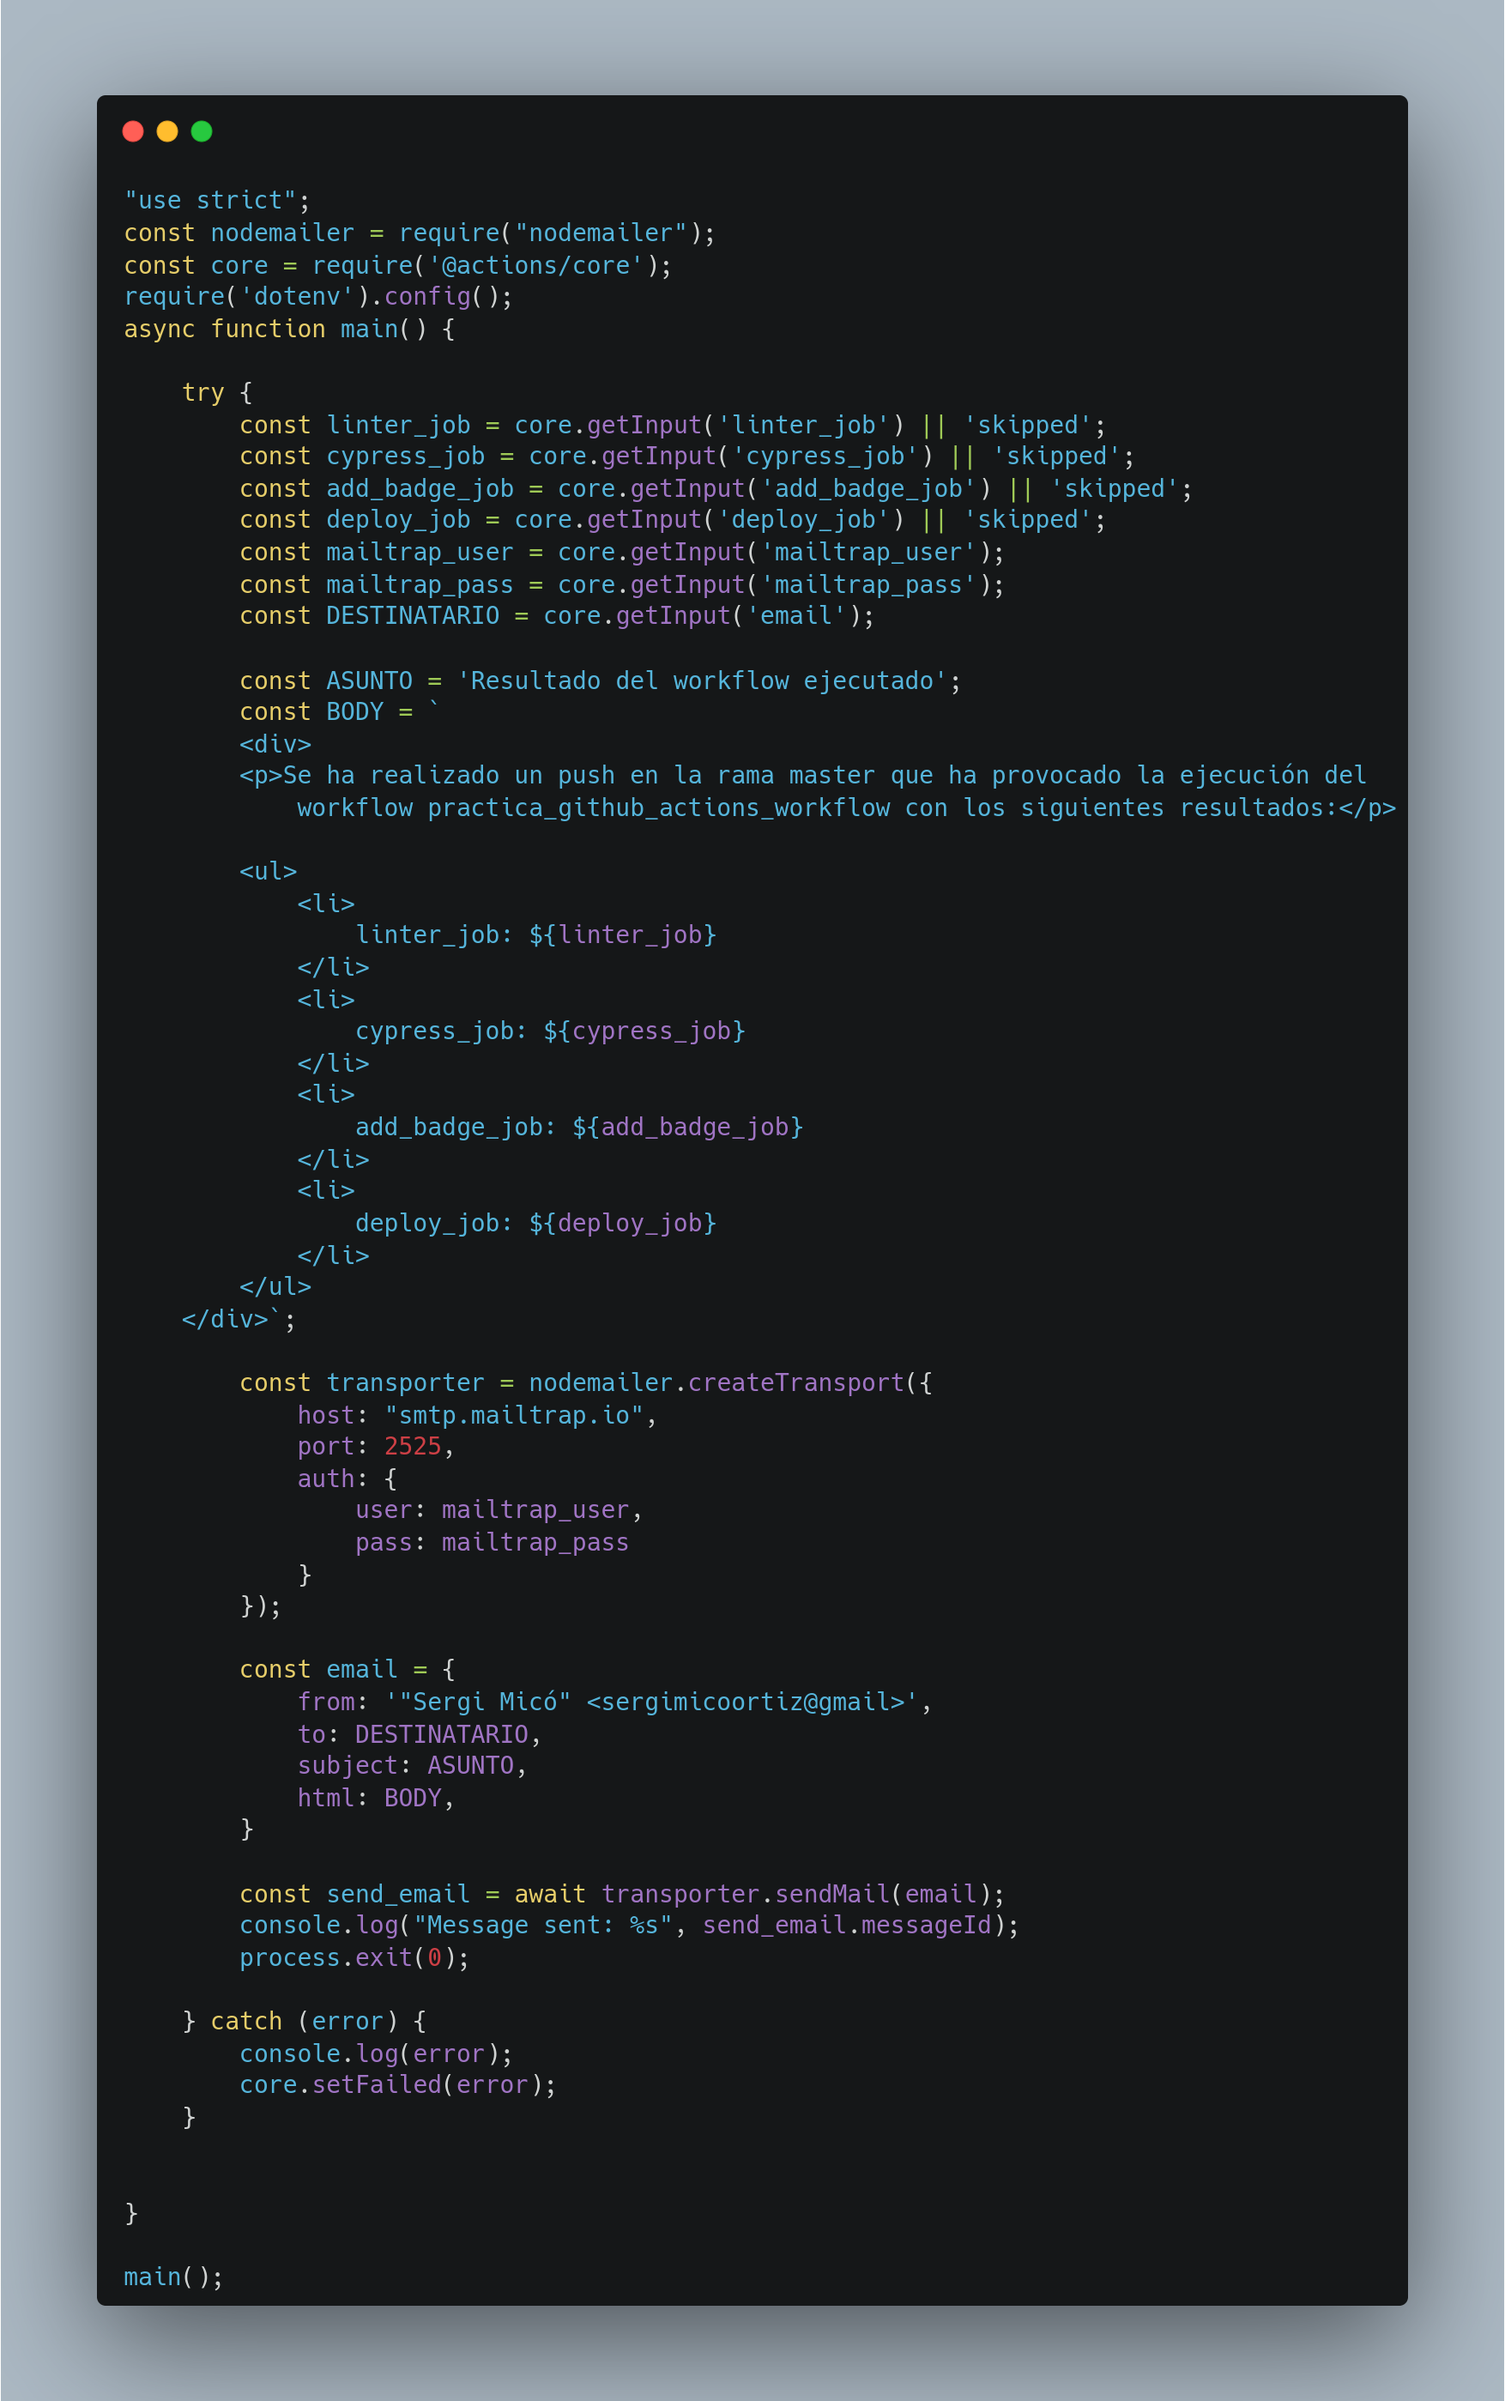
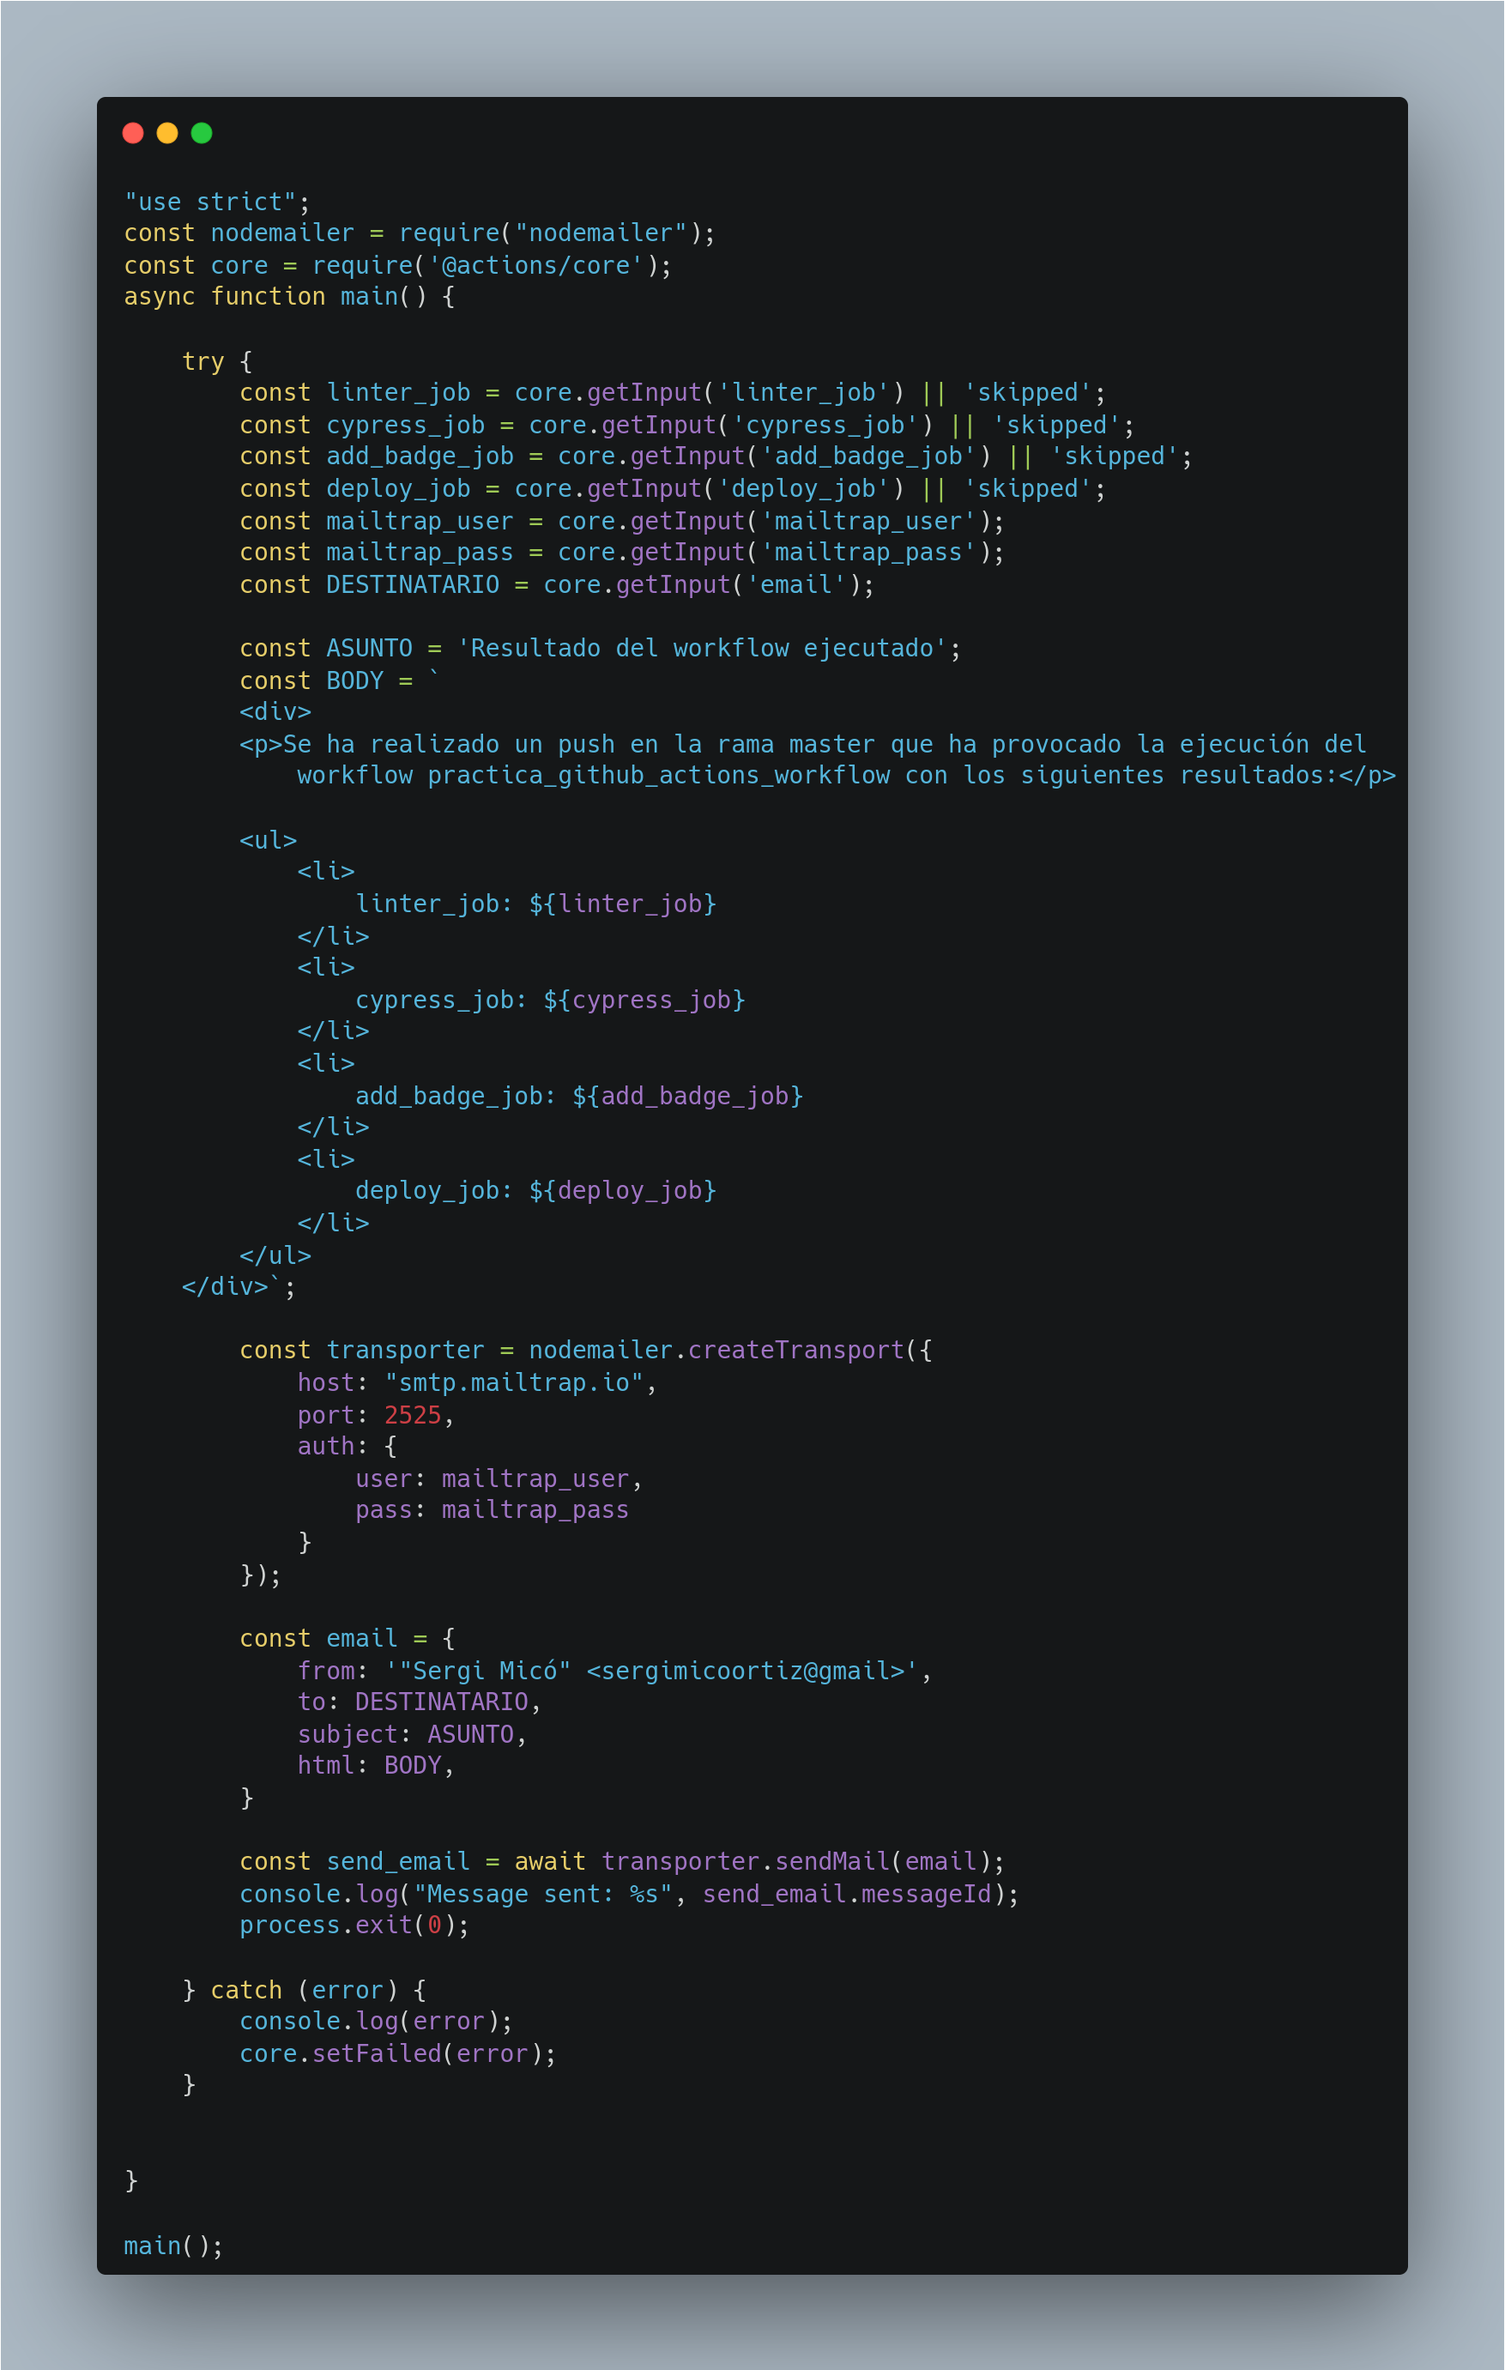
Updated README

diff --git a/.github/actions/email/dist/index.js b/.github/actions/email/dist/index.js
@@ -1762,125 +1762,6 @@ exports.checkBypass = checkBypass;
 
 /***/ }),
 
-/***/ 2437:
-/***/ ((module, __unused_webpack_exports, __nccwpck_require__) => {
-
-const fs = __nccwpck_require__(7147)
-const path = __nccwpck_require__(1017)
-const os = __nccwpck_require__(2037)
-const packageJson = __nccwpck_require__(9968)
-
-const version = packageJson.version
-
-const LINE = /(?:^|^)\s*(?:export\s+)?([\w.-]+)(?:\s*=\s*?|:\s+?)(\s*'(?:\\'|[^'])*'|\s*"(?:\\"|[^"])*"|\s*`(?:\\`|[^`])*`|[^#\r\n]+)?\s*(?:#.*)?(?:$|$)/mg
-
-// Parser src into an Object
-function parse (src) {
-  const obj = {}
-
-  // Convert buffer to string
-  let lines = src.toString()
-
-  // Convert line breaks to same format
-  lines = lines.replace(/\r\n?/mg, '\n')
-
-  let match
-  while ((match = LINE.exec(lines)) != null) {
-    const key = match[1]
-
-    // Default undefined or null to empty string
-    let value = (match[2] || '')
-
-    // Remove whitespace
-    value = value.trim()
-
-    // Check if double quoted
-    const maybeQuote = value[0]
-
-    // Remove surrounding quotes
-    value = value.replace(/^(['"`])([\s\S]*)\1$/mg, '$2')
-
-    // Expand newlines if double quoted
-    if (maybeQuote === '"') {
-      value = value.replace(/\\n/g, '\n')
-      value = value.replace(/\\r/g, '\r')
-    }
-
-    // Add to object
-    obj[key] = value
-  }
-
-  return obj
-}
-
-function _log (message) {
-  console.log(`[dotenv@${version}][DEBUG] ${message}`)
-}
-
-function _resolveHome (envPath) {
-  return envPath[0] === '~' ? path.join(os.homedir(), envPath.slice(1)) : envPath
-}
-
-// Populates process.env from .env file
-function config (options) {
-  let dotenvPath = path.resolve(process.cwd(), '.env')
-  let encoding = 'utf8'
-  const debug = Boolean(options && options.debug)
-  const override = Boolean(options && options.override)
-
-  if (options) {
-    if (options.path != null) {
-      dotenvPath = _resolveHome(options.path)
-    }
-    if (options.encoding != null) {
-      encoding = options.encoding
-    }
-  }
-
-  try {
-    // Specifying an encoding returns a string instead of a buffer
-    const parsed = DotenvModule.parse(fs.readFileSync(dotenvPath, { encoding }))
-
-    Object.keys(parsed).forEach(function (key) {
-      if (!Object.prototype.hasOwnProperty.call(process.env, key)) {
-        process.env[key] = parsed[key]
-      } else {
-        if (override === true) {
-          process.env[key] = parsed[key]
-        }
-
-        if (debug) {
-          if (override === true) {
-            _log(`"${key}" is already defined in \`process.env\` and WAS overwritten`)
-          } else {
-            _log(`"${key}" is already defined in \`process.env\` and was NOT overwritten`)
-          }
-        }
-      }
-    })
-
-    return { parsed }
-  } catch (e) {
-    if (debug) {
-      _log(`Failed to load ${dotenvPath} ${e.message}`)
-    }
-
-    return { error: e }
-  }
-}
-
-const DotenvModule = {
-  config,
-  parse
-}
-
-module.exports.config = DotenvModule.config
-module.exports.parse = DotenvModule.parse
-module.exports = DotenvModule
-
-
-/***/ }),
-
 /***/ 7382:
 /***/ ((module) => {
 
@@ -15888,14 +15769,6 @@ module.exports = require("zlib");
 
 /***/ }),
 
-/***/ 9968:
-/***/ ((module) => {
-
-"use strict";
-module.exports = JSON.parse('{"name":"dotenv","version":"16.0.3","description":"Loads environment variables from .env file","main":"lib/main.js","types":"lib/main.d.ts","exports":{".":{"require":"./lib/main.js","types":"./lib/main.d.ts","default":"./lib/main.js"},"./config":"./config.js","./config.js":"./config.js","./lib/env-options":"./lib/env-options.js","./lib/env-options.js":"./lib/env-options.js","./lib/cli-options":"./lib/cli-options.js","./lib/cli-options.js":"./lib/cli-options.js","./package.json":"./package.json"},"scripts":{"dts-check":"tsc --project tests/types/tsconfig.json","lint":"standard","lint-readme":"standard-markdown","pretest":"npm run lint && npm run dts-check","test":"tap tests/*.js --100 -Rspec","prerelease":"npm test","release":"standard-version"},"repository":{"type":"git","url":"git://github.com/motdotla/dotenv.git"},"keywords":["dotenv","env",".env","environment","variables","config","settings"],"readmeFilename":"README.md","license":"BSD-2-Clause","devDependencies":{"@types/node":"^17.0.9","decache":"^4.6.1","dtslint":"^3.7.0","sinon":"^12.0.1","standard":"^16.0.4","standard-markdown":"^7.1.0","standard-version":"^9.3.2","tap":"^15.1.6","tar":"^6.1.11","typescript":"^4.5.4"},"engines":{"node":">=12"}}');
-
-/***/ }),
-
 /***/ 8249:
 /***/ ((module) => {
 
@@ -15957,7 +15830,6 @@ var __webpack_exports__ = {};
 
 const nodemailer = __nccwpck_require__(4289);
 const core = __nccwpck_require__(2186);
-(__nccwpck_require__(2437).config)();
 async function main() {
 
     try {

diff --git a/.github/actions/email/index.js b/.github/actions/email/index.js
@@ -1,7 +1,6 @@
 "use strict";
 const nodemailer = require("nodemailer");
 const core = require('@actions/core');
-require('dotenv').config();
 async function main() {
 
     try {

diff --git a/README.md b/README.md
@@ -64,5 +64,14 @@ Luego he creado el job usuando la action anterior al cual le paso como parámetr
 <img src='./pic/Screenshot_20230116_164508.png'/>
 <img src='./pic/Screenshot_20230116_164536.png'/>
 
-## README personal:
+## README Metrics:
 
+He generado un token en github, el cual he usado el el workflow.
+
+<img src='./pic/Screenshot_20230116_211250.png'/>
+<img src='./pic/Screenshot_20230116_211640.png'/>
+
+El workflow genera un svg el cual debeos de poner en el README.md
+
+<img src='./pic/Screenshot_20230116_211229.png'/>
+<img src='./pic/Screenshot_20230116_211137.png'/>
